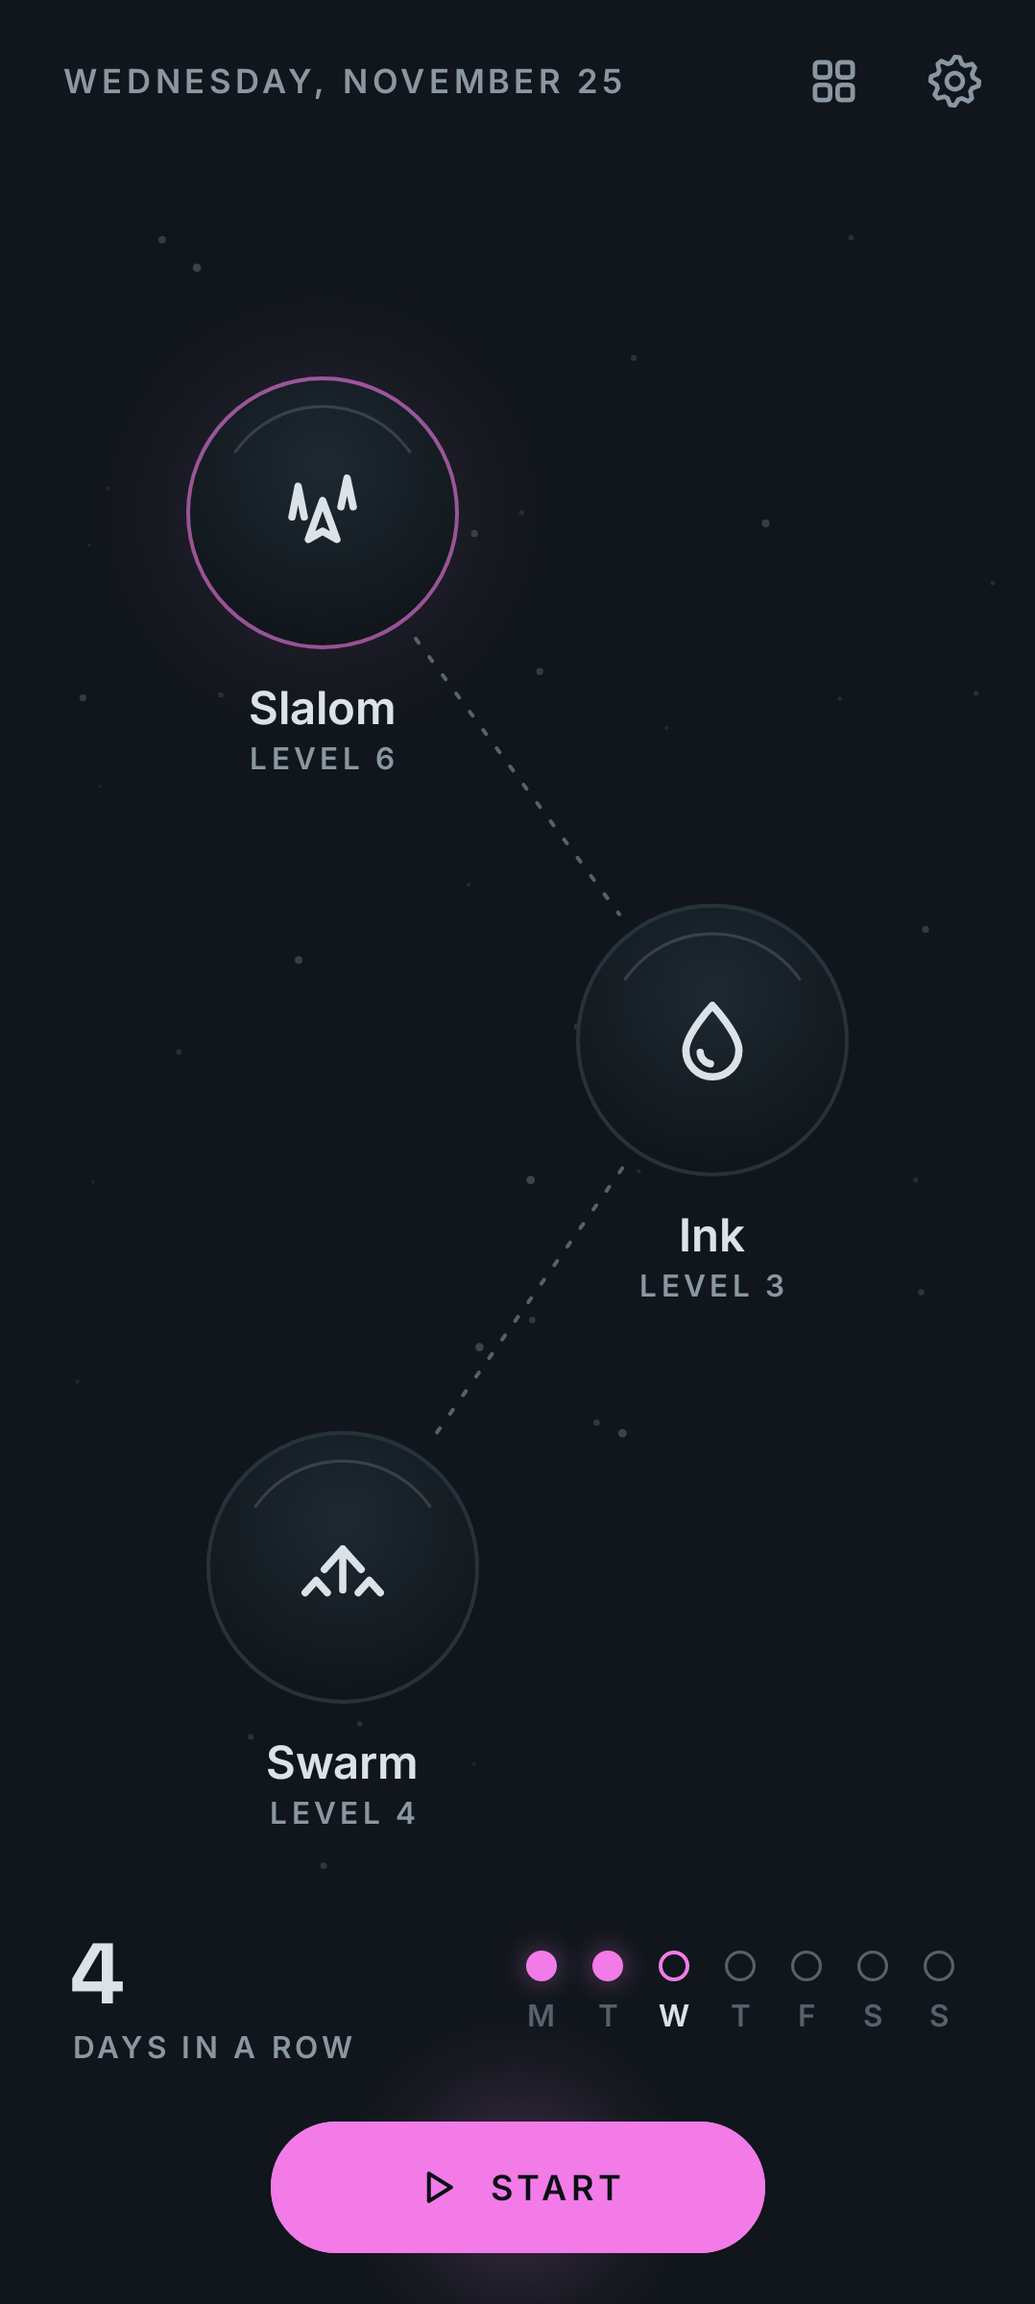
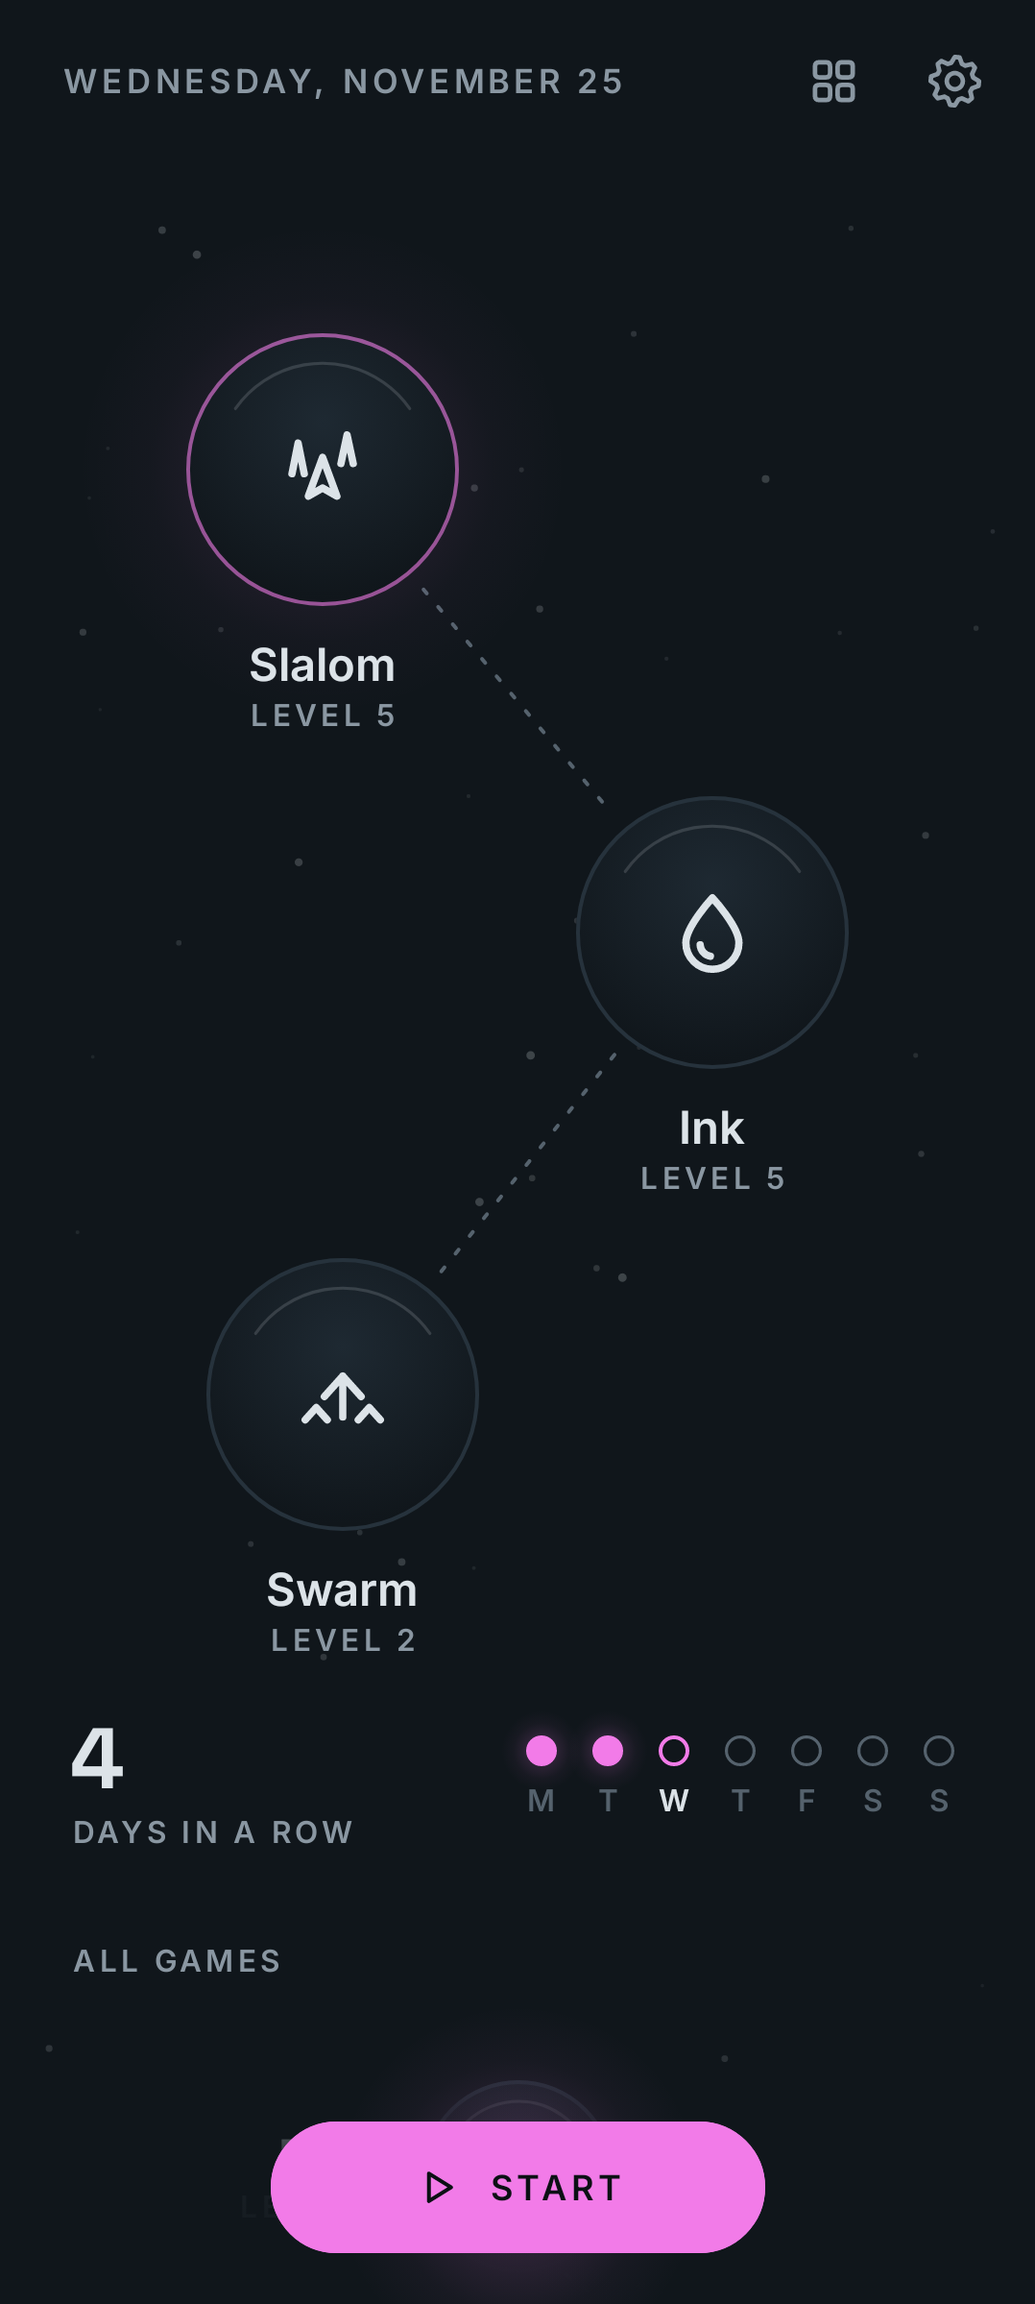
thinkr: Startseite mit Lernpfad aller Spiele unter dem Tagesbild

diff --git a/apps/thinkr/src/main/kotlin/solutions/xapient/thinkr/ui/HomeScreen.kt b/apps/thinkr/src/main/kotlin/solutions/xapient/thinkr/ui/HomeScreen.kt
@@ -21,6 +21,9 @@ import androidx.compose.foundation.layout.padding
 import androidx.compose.foundation.layout.size
 import androidx.compose.foundation.layout.width
 import androidx.compose.foundation.layout.widthIn
+import androidx.compose.foundation.ScrollState
+import androidx.compose.foundation.rememberScrollState
+import androidx.compose.foundation.verticalScroll
 import androidx.compose.foundation.shape.CircleShape
 import androidx.compose.foundation.text.BasicText
 import androidx.compose.runtime.Composable
@@ -30,6 +33,7 @@ import androidx.compose.ui.Alignment
 import androidx.compose.ui.Modifier
 import androidx.compose.ui.geometry.Offset
 import androidx.compose.ui.graphics.Brush
+import androidx.compose.ui.graphics.Path
 import androidx.compose.ui.graphics.PathEffect
 import androidx.compose.ui.graphics.StrokeCap
 import androidx.compose.ui.graphics.drawscope.Stroke
@@ -63,22 +67,26 @@ import solutions.xapient.thinkr.domain.Days
 import solutions.xapient.thinkr.domain.GameId
 import java.time.format.DateTimeFormatter
 import java.time.format.TextStyle
+import kotlin.math.sin
 import kotlin.random.Random
 
 data class DailyItem(val id: GameId, val name: String, val icon: ImageVector, val level: Int, val done: Boolean)
 
-// Heute: Tagesbild als Hero, darunter Serie und Woche, unten die eine Hauptaktion
+// Heute: Tagesbild als Hero, darunter Serie und Woche, beim Scrollen alle Spiele als Pfad; unten die eine Hauptaktion
 @Composable
 fun HomeScreen(
     today: Int,
     items: List<DailyItem>,
+    games: List<GameItem>,
     streak: Int,
     week: List<Boolean>,
     haptics: Haptics?,
     onPlay: (GameId) -> Unit,
     onGames: () -> Unit,
     onSettings: () -> Unit,
+    scroll: ScrollState = rememberScrollState(),
 ) {
+    val c = Aapps.colors
     val next = items.firstOrNull { !it.done }
     val allDone = items.isNotEmpty() && next == null
     val landscape = LocalWindowInfo.current.containerSize.let { it.width > it.height }
@@ -100,23 +108,44 @@ fun HomeScreen(
     }
     val play: (GameId) -> Unit = { haptics?.press(); onPlay(it) }
     AappsScaffold {
-        if (landscape) {
-            Row(Modifier.fillMaxSize()) {
-                Column(Modifier.weight(0.42f).fillMaxHeight().padding(start = 12.dp, bottom = 16.dp)) {
-                    Header(today, onGames, onSettings)
-                    Spacer(Modifier.weight(1f))
-                    StreakRow(streak, week, today, Modifier.padding(start = 12.dp, end = 8.dp))
-                    Spacer(Modifier.height(20.dp))
-                    Box(Modifier.padding(start = 8.dp)) { action() }
+        BoxWithConstraints(Modifier.fillMaxSize()) {
+            val viewH = maxHeight
+            if (landscape) {
+                Row(Modifier.fillMaxSize()) {
+                    Column(Modifier.weight(0.42f).fillMaxHeight().padding(start = 12.dp, bottom = 16.dp)) {
+                        Header(today, onGames, onSettings)
+                        Spacer(Modifier.weight(1f))
+                        StreakRow(streak, week, today, Modifier.padding(start = 12.dp, end = 8.dp))
+                        Spacer(Modifier.height(20.dp))
+                        Box(Modifier.padding(start = 8.dp)) { action() }
+                    }
+                    Column(Modifier.weight(0.58f).fillMaxHeight().verticalScroll(scroll)) {
+                        // Pfadtitel lugt unten hervor: zeigt, dass es weitergeht
+                        Constellation(items, next?.id, play, Modifier.fillMaxWidth().height(viewH - 44.dp).padding(12.dp))
+                        PathTitle()
+                        GamePath(games, play, Modifier.padding(bottom = 24.dp))
+                    }
                 }
-                Constellation(items, next?.id, play, Modifier.weight(0.58f).fillMaxHeight().padding(12.dp))
-            }
-        } else {
-            Column(Modifier.fillMaxSize()) {
-                Box(Modifier.padding(start = 12.dp)) { Header(today, onGames, onSettings) }
-                Constellation(items, next?.id, play, Modifier.weight(1f).fillMaxWidth().padding(horizontal = 12.dp))
-                StreakRow(streak, week, today, Modifier.padding(horizontal = 28.dp))
-                Box(Modifier.fillMaxWidth().padding(top = 22.dp, bottom = 20.dp), contentAlignment = Alignment.Center) { action() }
+            } else {
+                // Hero wie bisher, nur so viel kuerzer, dass der Pfad ueber der Pille hervorlugt
+                val heroH = (viewH - 64.dp - 76.dp - 98.dp - 64.dp).coerceAtLeast(300.dp)
+                Column(Modifier.fillMaxSize().verticalScroll(scroll)) {
+                    Box(Modifier.padding(start = 12.dp)) { Header(today, onGames, onSettings) }
+                    Constellation(items, next?.id, play, Modifier.fillMaxWidth().height(heroH).padding(horizontal = 12.dp))
+                    StreakRow(streak, week, today, Modifier.padding(horizontal = 28.dp))
+                    Spacer(Modifier.height(36.dp))
+                    PathTitle()
+                    GamePath(games, play, Modifier.padding(bottom = 112.dp))
+                }
+                // Pille schwebt ueber dem Pfad, weicher Uebergang statt harter Kante
+                Box(
+                    Modifier
+                        .align(Alignment.BottomCenter)
+                        .fillMaxWidth()
+                        .background(Brush.verticalGradient(0f to c.bg.copy(alpha = 0f), 0.45f to c.bg.copy(alpha = 0.92f), 1f to c.bg))
+                        .padding(top = 30.dp, bottom = 20.dp),
+                    contentAlignment = Alignment.Center,
+                ) { action() }
             }
         }
     }
@@ -225,45 +254,7 @@ private fun Orb(item: DailyItem, isNext: Boolean, size: Dp, onClick: () -> Unit,
             .clickable(source, indication = null, role = Role.Button, onClick = onClick),
         horizontalAlignment = Alignment.CenterHorizontally,
     ) {
-        Box(Modifier.size(size).pressScale(pressed, 0.94f), contentAlignment = Alignment.Center) {
-            Canvas(Modifier.size(size)) {
-                val r = this.size.minDimension / 2
-                when {
-                    item.done -> drawGlow(c.accent, center, r * 1.9f, 0.32f)
-                    isNext -> drawGlow(c.accent, center, r * 1.8f, 0.2f)
-                }
-                drawCircle(
-                    Brush.radialGradient(listOf(c.surfaceHigh, c.bg), center = center.copy(y = center.y - r * 0.35f), radius = r * 1.3f),
-                    r, center,
-                )
-                val edge = when {
-                    item.done -> c.accent
-                    isNext -> c.accent.copy(alpha = 0.6f)
-                    else -> c.line
-                }
-                drawCircle(edge, r - 0.75.dp.toPx(), center, style = Stroke(1.5.dp.toPx()))
-                // Reflex oben
-                drawArc(
-                    c.fg.copy(alpha = 0.16f), 215f, 110f, false,
-                    topLeft = Offset(center.x - r * 0.78f, center.y - r * 0.78f),
-                    size = androidx.compose.ui.geometry.Size(r * 1.56f, r * 1.56f),
-                    style = Stroke(1.2.dp.toPx(), cap = StrokeCap.Round),
-                )
-            }
-            AappsIcon(item.icon, null, if (item.done) c.accent else c.fg, size = size * 0.36f)
-            if (item.done) {
-                Box(
-                    Modifier
-                        .align(Alignment.BottomEnd)
-                        .offset(x = (-size * 0.04f), y = (-size * 0.04f))
-                        .size(30.dp)
-                        .background(c.accent, CircleShape),
-                    contentAlignment = Alignment.Center,
-                ) {
-                    AappsIcon(AappsIcons.Check, null, c.onAccent, size = 18.dp)
-                }
-            }
-        }
+        OrbFace(item.icon, item.done, isNext, size, Modifier.pressScale(pressed, 0.94f))
         Spacer(Modifier.height(12.dp))
         BasicText(
             item.name, style = Aapps.type.title.copy(color = c.fg, textAlign = TextAlign.Center),
@@ -275,6 +266,151 @@ private fun Orb(item: DailyItem, isNext: Boolean, size: Dp, onClick: () -> Unit,
             style = Aapps.type.label.copy(color = if (item.done) c.accent else c.fgMuted, textAlign = TextAlign.Center),
             maxLines = 1,
         )
+    }
+}
+
+// Glaskugel mit Symbol; lit = hervorgehoben (naechstes bzw. heute dran), done = Akzent und Haken
+@Composable
+private fun OrbFace(icon: ImageVector, done: Boolean, lit: Boolean, size: Dp, modifier: Modifier = Modifier) {
+    val c = Aapps.colors
+    Box(modifier.size(size), contentAlignment = Alignment.Center) {
+        Canvas(Modifier.size(size)) {
+            val r = this.size.minDimension / 2
+            when {
+                done -> drawGlow(c.accent, center, r * 1.9f, 0.32f)
+                lit -> drawGlow(c.accent, center, r * 1.8f, 0.2f)
+            }
+            drawCircle(
+                Brush.radialGradient(listOf(c.surfaceHigh, c.bg), center = center.copy(y = center.y - r * 0.35f), radius = r * 1.3f),
+                r, center,
+            )
+            val edge = when {
+                done -> c.accent
+                lit -> c.accent.copy(alpha = 0.6f)
+                else -> c.line
+            }
+            drawCircle(edge, r - 0.75.dp.toPx(), center, style = Stroke(1.5.dp.toPx()))
+            // Reflex oben
+            drawArc(
+                c.fg.copy(alpha = 0.16f), 215f, 110f, false,
+                topLeft = Offset(center.x - r * 0.78f, center.y - r * 0.78f),
+                size = androidx.compose.ui.geometry.Size(r * 1.56f, r * 1.56f),
+                style = Stroke(1.2.dp.toPx(), cap = StrokeCap.Round),
+            )
+        }
+        AappsIcon(icon, null, if (done) c.accent else c.fg, size = size * 0.36f)
+        if (done) {
+            val badge = (size * 0.3f).coerceIn(22.dp, 30.dp)
+            Box(
+                Modifier
+                    .align(Alignment.BottomEnd)
+                    .offset(x = (-size * 0.04f), y = (-size * 0.04f))
+                    .size(badge)
+                    .background(c.accent, CircleShape),
+                contentAlignment = Alignment.Center,
+            ) {
+                AappsIcon(AappsIcons.Check, null, c.onAccent, size = badge * 0.6f)
+            }
+        }
+    }
+}
+
+@Composable
+private fun PathTitle() {
+    val c = Aapps.colors
+    BasicText(
+        stringResource(R.string.all_games).uppercase(),
+        Modifier.fillMaxWidth().padding(horizontal = 28.dp),
+        style = Aapps.type.label.copy(color = c.fgMuted),
+    )
+}
+
+// Waagrechte Lage der Stationen: sanfte S-Kurve Mitte, rechts, rechts, Mitte, links, links ...
+private fun pathX(i: Int): Float = 0.5f + 0.26f * sin(i * 1.05f)
+
+// Alle Spiele als geschwungener Pfad; Tipp startet frei
+@Composable
+private fun GamePath(games: List<GameItem>, onPlay: (GameId) -> Unit, modifier: Modifier) {
+    val c = Aapps.colors
+    val fs = LocalDensity.current.fontScale.coerceIn(1f, 2f)
+    val node = 76.dp
+    val step = 116.dp + 28.dp * (fs - 1f)
+    val top = 40.dp
+    // eigener Sternenstaub, gleich ruhig wie im Hero
+    val dust = remember { Random(41).let { r -> List(40) { Triple(r.nextFloat(), r.nextFloat(), r.nextFloat()) } } }
+    BoxWithConstraints(modifier.fillMaxWidth().height(top * 2 + step * (games.size - 1).coerceAtLeast(0) + node)) {
+        val w = maxWidth
+        val cx = { i: Int -> w * pathX(i) }
+        val cy = { i: Int -> top + node / 2 + step * i }
+        Canvas(Modifier.fillMaxSize()) {
+            dust.forEach { (x, y, a) ->
+                drawCircle(c.fg.copy(alpha = 0.05f + 0.13f * a), (0.6f + 1.0f * a).dp.toPx(), Offset(x * size.width, y * size.height))
+            }
+            if (games.size < 2) return@Canvas
+            val pts = games.indices.map { Offset(cx(it).toPx(), cy(it).toPx()) }
+            val path = Path().apply {
+                moveTo(pts[0].x, pts[0].y)
+                pts.zipWithNext().forEach { (a, b) ->
+                    val dy = (b.y - a.y) / 2
+                    cubicTo(a.x, a.y + dy, b.x, b.y - dy, b.x, b.y)
+                }
+            }
+            // breites, ruhiges Band als Weg, darauf die gestrichelte Spur wie im Sternbild
+            drawPath(path, c.surface, style = Stroke(18.dp.toPx(), cap = StrokeCap.Round))
+            drawPath(
+                path, c.fgFaint,
+                style = Stroke(1.5.dp.toPx(), cap = StrokeCap.Round, pathEffect = PathEffect.dashPathEffect(floatArrayOf(2.dp.toPx(), 7.dp.toPx()))),
+            )
+        }
+        games.forEachIndexed { i, g ->
+            // Beschriftung auf die freie Seite: weg von der Kurve zur naechsten Station
+            val bias = (pathX(i) - 0.5f) + (pathX(i + 1) - 0.5f) * 0.5f
+            val labelLeft = bias > 0f
+            val gap = 14.dp
+            val labelW = if (labelLeft) cx(i) - node / 2 - gap - 20.dp else w - cx(i) - node / 2 - gap - 20.dp
+            val x = if (labelLeft) cx(i) - node / 2 - gap - labelW else cx(i) - node / 2
+            PathNode(g, node, labelLeft, labelW, gap, { onPlay(g.id) }, Modifier.offset(x, cy(i) - node / 2))
+        }
+    }
+}
+
+@Composable
+private fun PathNode(item: GameItem, node: Dp, labelLeft: Boolean, labelW: Dp, gap: Dp, onClick: () -> Unit, modifier: Modifier) {
+    val c = Aapps.colors
+    val source = remember { MutableInteractionSource() }
+    val pressed by source.collectIsPressedAsState()
+    val desc = stringResource(if (item.doneToday) R.string.orb_done else R.string.orb_open, item.name, item.level) +
+        if (item.daily && !item.doneToday) ", " + stringResource(R.string.today) else ""
+    val level = stringResource(R.string.level_n, item.level)
+    val tag = when {
+        item.doneToday -> stringResource(R.string.today_done) + "  ·  " + level
+        item.daily -> stringResource(R.string.today) + "  ·  " + level
+        else -> level
+    }
+    val align = if (labelLeft) TextAlign.End else TextAlign.Start
+    val label: @Composable () -> Unit = {
+        Column(Modifier.width(labelW.coerceAtLeast(0.dp))) {
+            BasicText(
+                item.name, Modifier.fillMaxWidth(), style = Aapps.type.title.copy(color = c.fg, textAlign = align),
+                maxLines = 2, overflow = TextOverflow.Ellipsis,
+            )
+            Spacer(Modifier.height(2.dp))
+            BasicText(
+                tag.uppercase(), Modifier.fillMaxWidth(),
+                style = Aapps.type.label.copy(color = if (item.daily) c.accent else c.fgMuted, textAlign = align),
+                maxLines = 2,
+            )
+        }
+    }
+    Row(
+        modifier
+            .semantics(mergeDescendants = true) { contentDescription = desc }
+            .clickable(source, indication = null, role = Role.Button, onClick = onClick),
+        verticalAlignment = Alignment.CenterVertically,
+    ) {
+        if (labelLeft) { label(); Spacer(Modifier.width(gap)) }
+        OrbFace(item.icon, item.doneToday, item.daily, node, Modifier.pressScale(pressed, 0.94f))
+        if (!labelLeft) { Spacer(Modifier.width(gap)); label() }
     }
 }
 

diff --git a/apps/thinkr/src/test/kotlin/solutions/xapient/thinkr/screenshots/ThinkrScreenshotTest.kt b/apps/thinkr/src/test/kotlin/solutions/xapient/thinkr/screenshots/ThinkrScreenshotTest.kt
@@ -1,6 +1,8 @@
 package solutions.xapient.thinkr.screenshots
 
+import androidx.compose.foundation.ScrollState
 import androidx.compose.runtime.Composable
+import androidx.compose.runtime.remember
 import androidx.compose.ui.res.stringResource
 import com.github.takahirom.roborazzi.RobolectricDeviceQualifiers
 import com.github.takahirom.roborazzi.RoborazziOptions
@@ -52,18 +54,25 @@ class ThinkrScreenshotTest {
     private val today = 20261125
     private val week = listOf(true, true, false, false, false, false, false)
     private val weekDone = listOf(true, true, true, false, false, false, false)
+    private val levels = listOf(6, 3, 4, 5, 2, 7, 4, 3, 5)
 
     // Tagesbild aus der echten Auswahl fuer heute (drei der fuenf Spiele); done = wie viele schon erledigt
     @Composable
-    private fun Home(done: Int = 0) = HomeScreen(
+    private fun Home(done: Int = 0, scroll: Int = 0) = HomeScreen(
         today = today,
         items = Daily.pick(today, Games.ids).mapIndexed { i, id ->
             val def = Games.of(id)!!
-            DailyItem(id, stringResource(def.name), def.icon, listOf(6, 3, 4)[i], i < done)
+            DailyItem(id, stringResource(def.name), def.icon, levels[Games.ids.indexOf(id)], i < done)
+        },
+        games = Games.all.mapIndexed { i, def ->
+            val pick = Daily.pick(today, Games.ids)
+            val daily = def.id in pick
+            GameItem(def.id, stringResource(def.name), def.icon, levels[i], 0, daily, daily && pick.indexOf(def.id) < done)
         },
         streak = if (done == 3) 5 else 4,
         week = if (done == 3) weekDone else week,
         haptics = null, onPlay = {}, onGames = {}, onSettings = {},
+        scroll = remember { ScrollState(scroll) },
     )
 
     @Test fun home() = shot("home") { Home() }
@@ -74,6 +83,13 @@ class ThinkrScreenshotTest {
     @Test fun home_partly() = shot("home_partly") { Home(done = 1) }
     @Test fun home_partly_land() = shot("home_partly_land", "+land") { Home(done = 2) }
     @Test fun home_done() = shot("home_done") { Home(done = 3) }
+
+    // Lernpfad: Startseite gescrollt (Pixel 7: 2,625 px je dp); mitte = Uebergang Hero -> Pfad, ende = letzte Stationen
+    @Test fun home_path() = shot("home_path") { Home(done = 1, scroll = 1700) }
+    @Test fun home_path_end() = shot("home_path_end") { Home(done = 1, scroll = Int.MAX_VALUE) }
+    @Test fun home_path_de() = shot("home_path_de", "+de") { Home(done = 2, scroll = 1700) }
+    @Test fun home_path_font200() = shot("home_path_font200", fontScale = 2f) { Home(done = 1, scroll = 2600) }
+    @Test fun home_path_land() = shot("home_path_land", "+land") { Home(done = 1, scroll = 900) }
 
     @Composable
     private fun GamesList() = GamesScreen(

diff --git a/apps/thinkr/src/main/kotlin/solutions/xapient/thinkr/ThinkrApp.kt b/apps/thinkr/src/main/kotlin/solutions/xapient/thinkr/ThinkrApp.kt
@@ -117,26 +117,29 @@ fun ThinkrApp(clock: () -> LocalDate = LocalDate::now) {
 
     AappsTheme(ThinkrAccent) {
         val haptics = rememberHaptics(hapticsOn)
+        // Start (Pfad) und Spiele-Menue zeigen dieselben Eintraege
+        val gameItems = Games.all.map {
+            val p = journal.progress(it.id, relaxed)
+            GameItem(it.id, stringResource(it.name), it.icon, p.level, p.best, it.id in daily, it.id in done)
+        }
         when (shown) {
             Screen.HOME -> HomeScreen(
                 today = today,
                 items = daily.mapNotNull { id ->
                     Games.of(id)?.let { DailyItem(id, stringResource(it.name), it.icon, journal.progress(id, relaxed).level, id in done) }
                 },
+                games = gameItems,
                 streak = Streak.count(journal.dailyDone, today),
                 week = Streak.week(journal.dailyDone, today),
                 haptics = haptics,
-                onPlay = { start(it, true, Screen.HOME) },
+                onPlay = { start(it, it in daily, Screen.HOME) },
                 onGames = { screen = Screen.GAMES },
                 onSettings = { screen = Screen.SETTINGS },
             )
             Screen.GAMES -> {
                 BackHandler { screen = Screen.HOME }
                 GamesScreen(
-                    items = Games.all.map {
-                        val p = journal.progress(it.id, relaxed)
-                        GameItem(it.id, stringResource(it.name), it.icon, p.level, p.best, it.id in daily, it.id in done)
-                    },
+                    items = gameItems,
                     onPlay = { haptics.press(); start(it, it in daily, Screen.GAMES) },
                     onBack = { screen = Screen.HOME },
                 )
